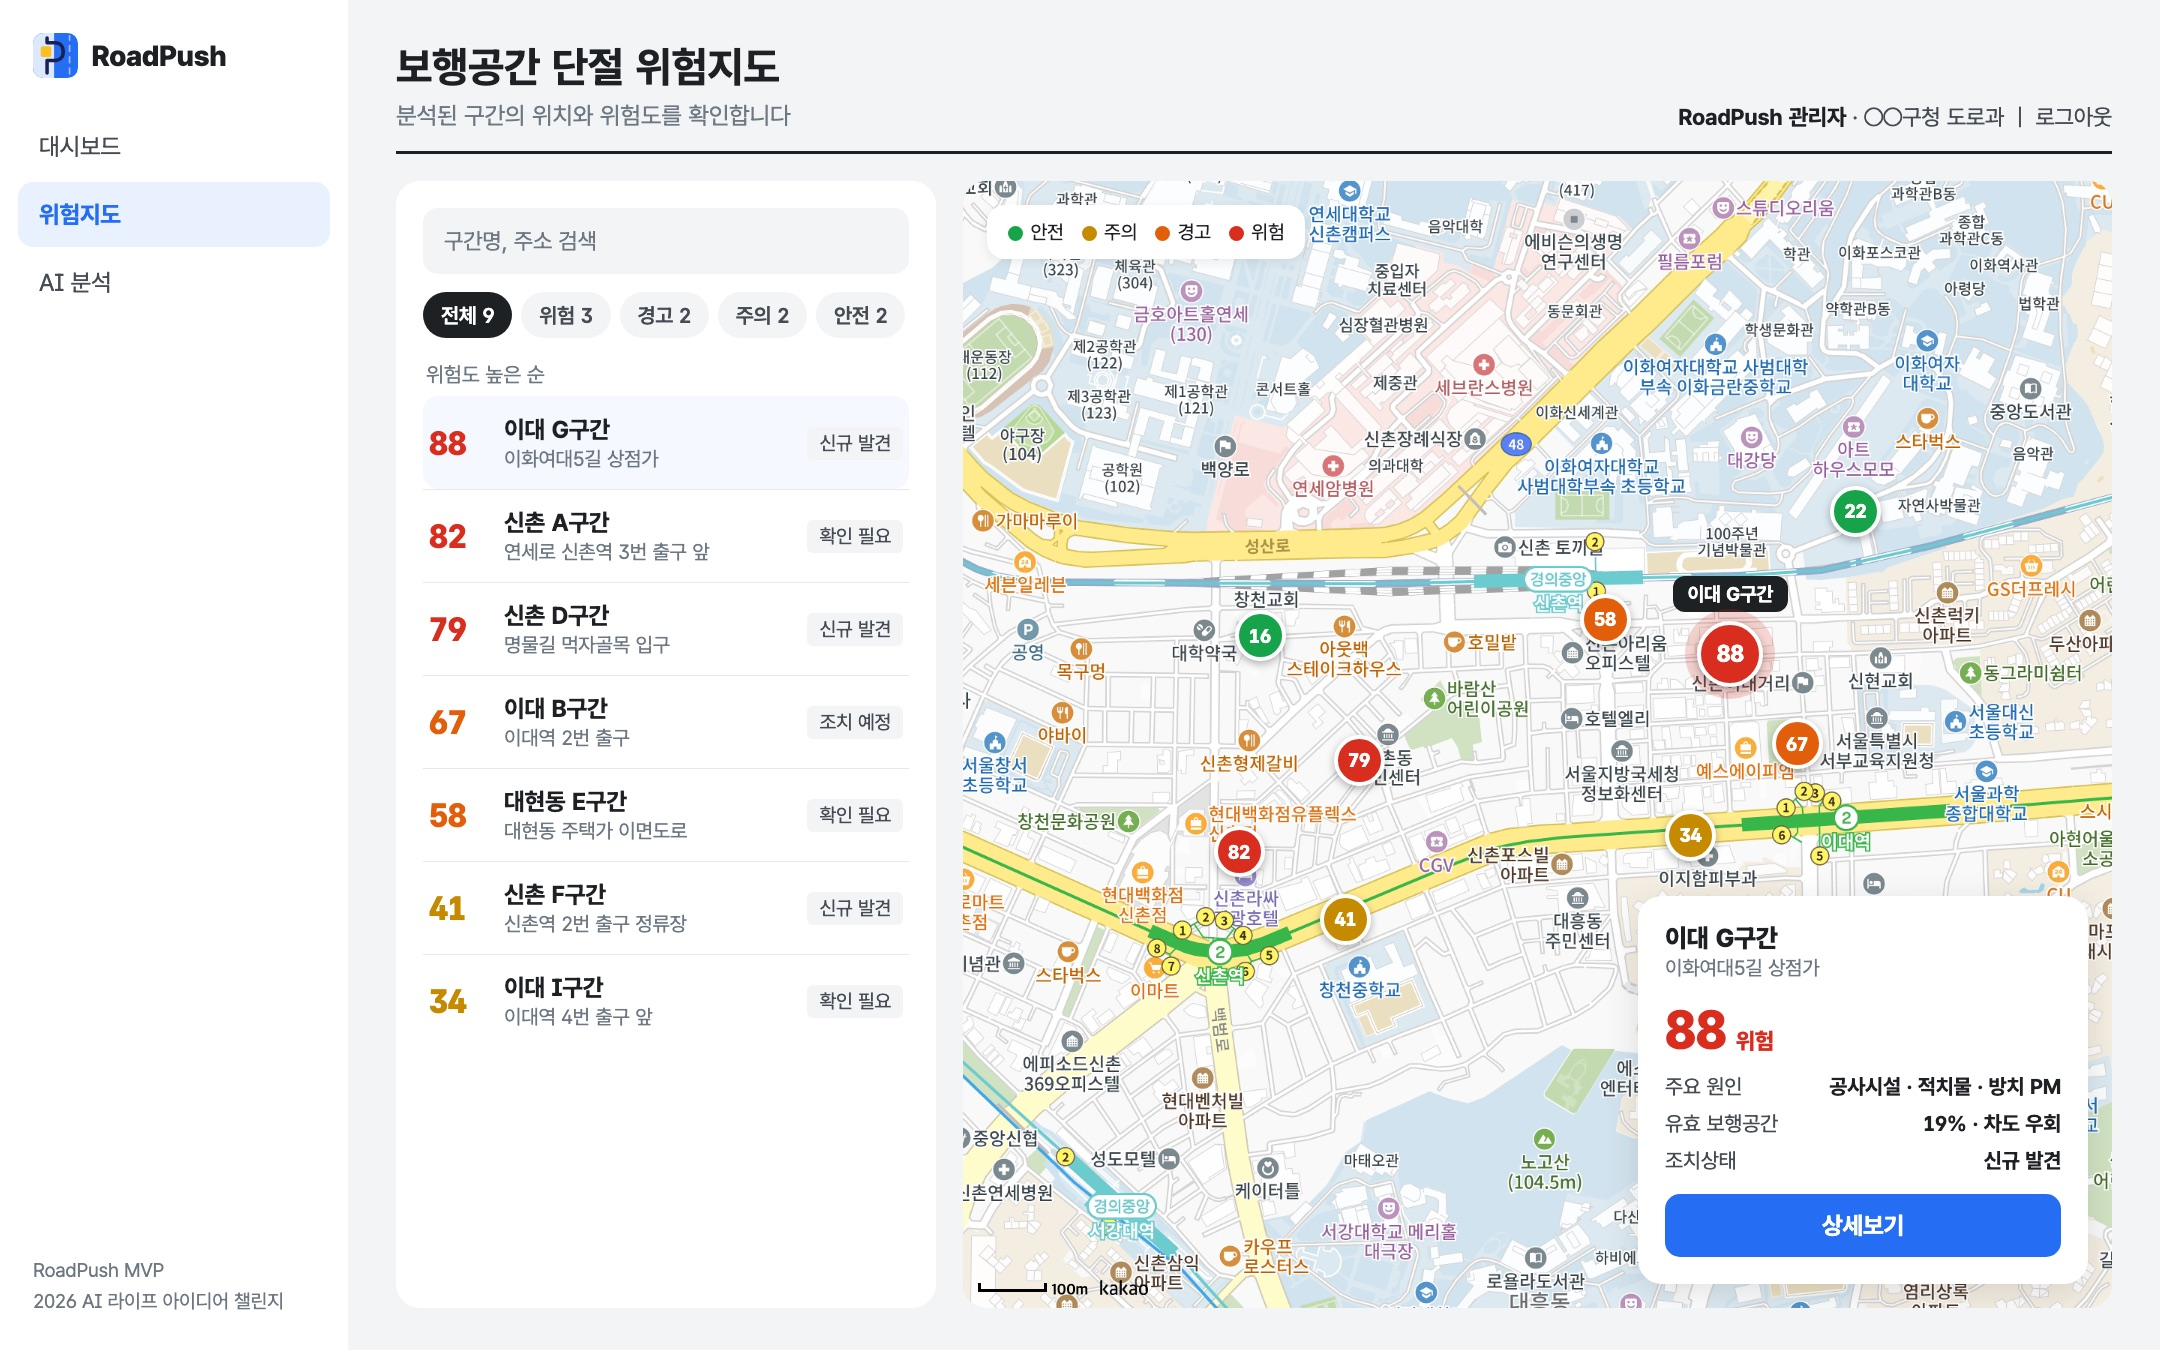
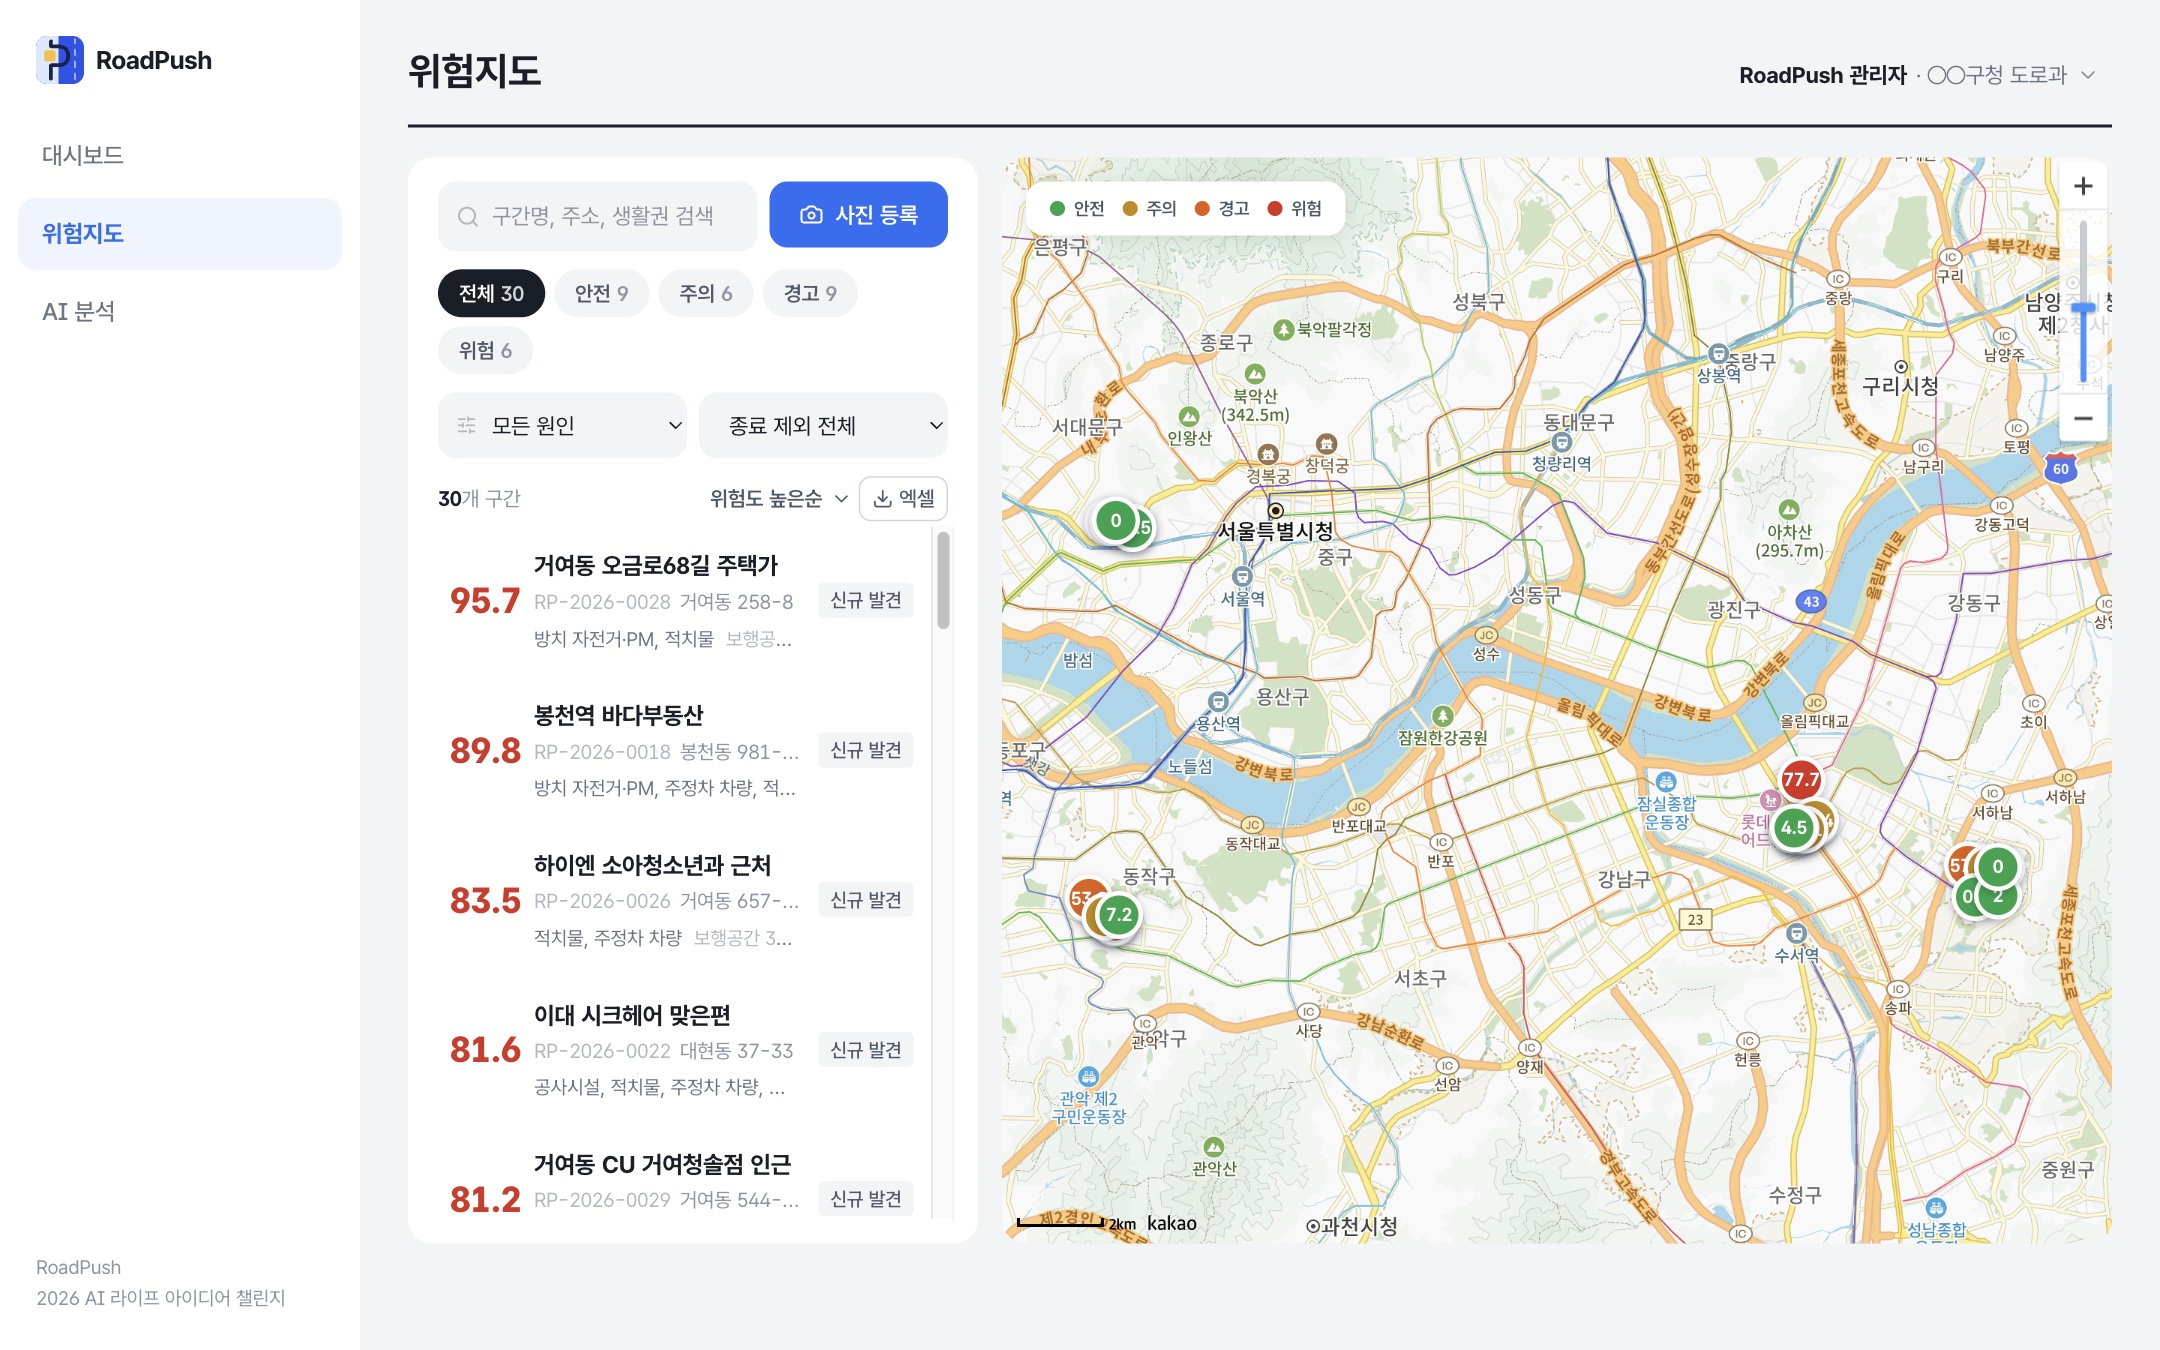
feat: 랜딩 위험지도 이미지를 실제 데이터 화면으로 교체

diff --git a/frontend/src/app/page.tsx b/frontend/src/app/page.tsx
@@ -52,7 +52,7 @@ export default function LandingPage() {
         </div>
         <div className="mx-auto mt-14 max-w-6xl overflow-hidden rounded-t-3xl bg-slate-100 px-3 pt-3 sm:px-7 sm:pt-7">
           <Image
-            src="/landing/riskmap-preview.jpg"
+            src="/landing/riskmap.jpg"
             alt="RoadPush 보행공간 단절 위험지도 화면"
             width={2160}
             height={1350}
